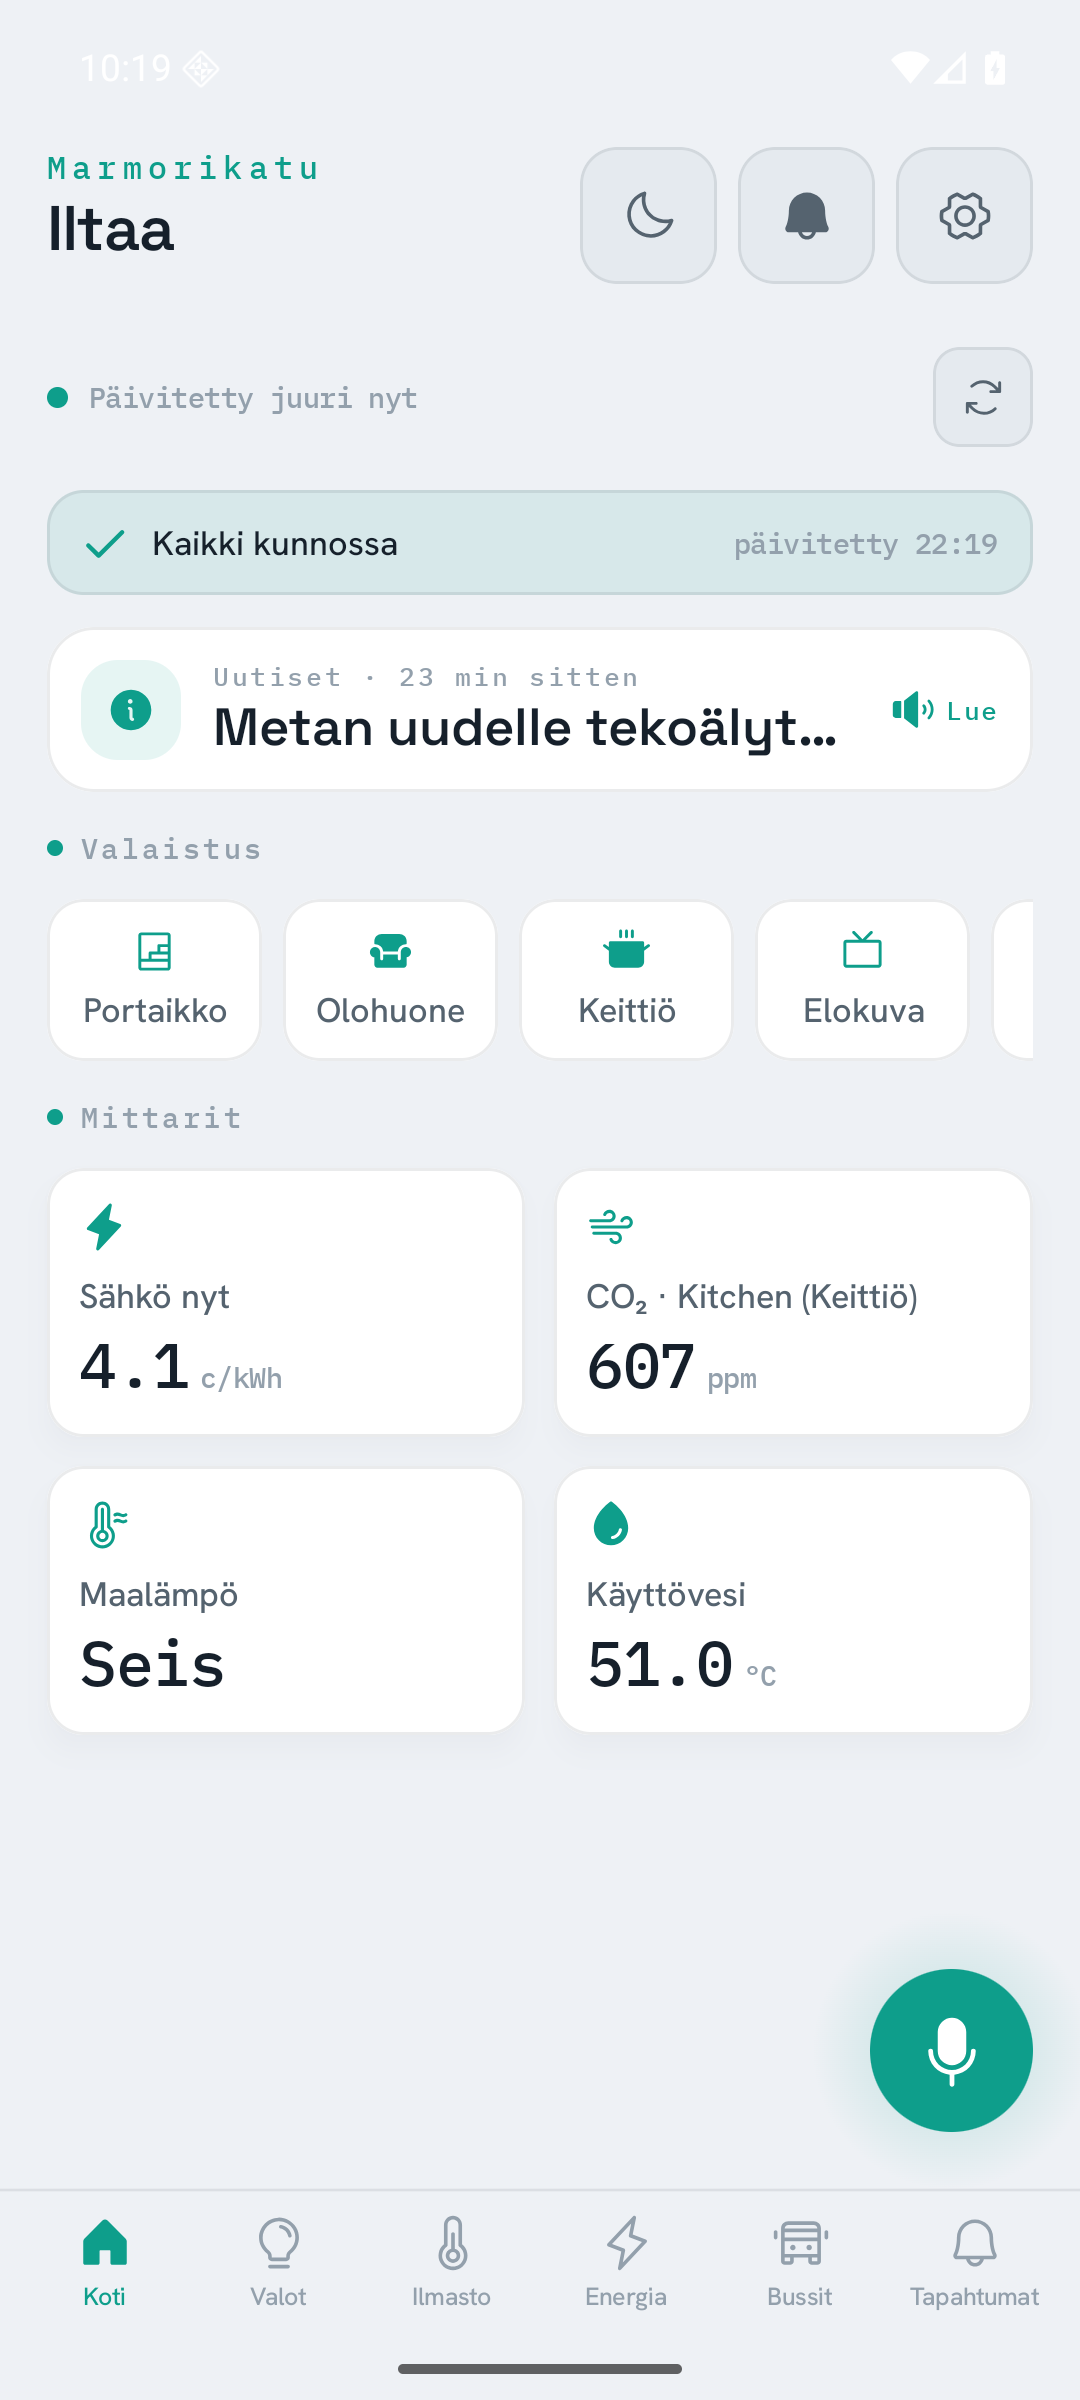
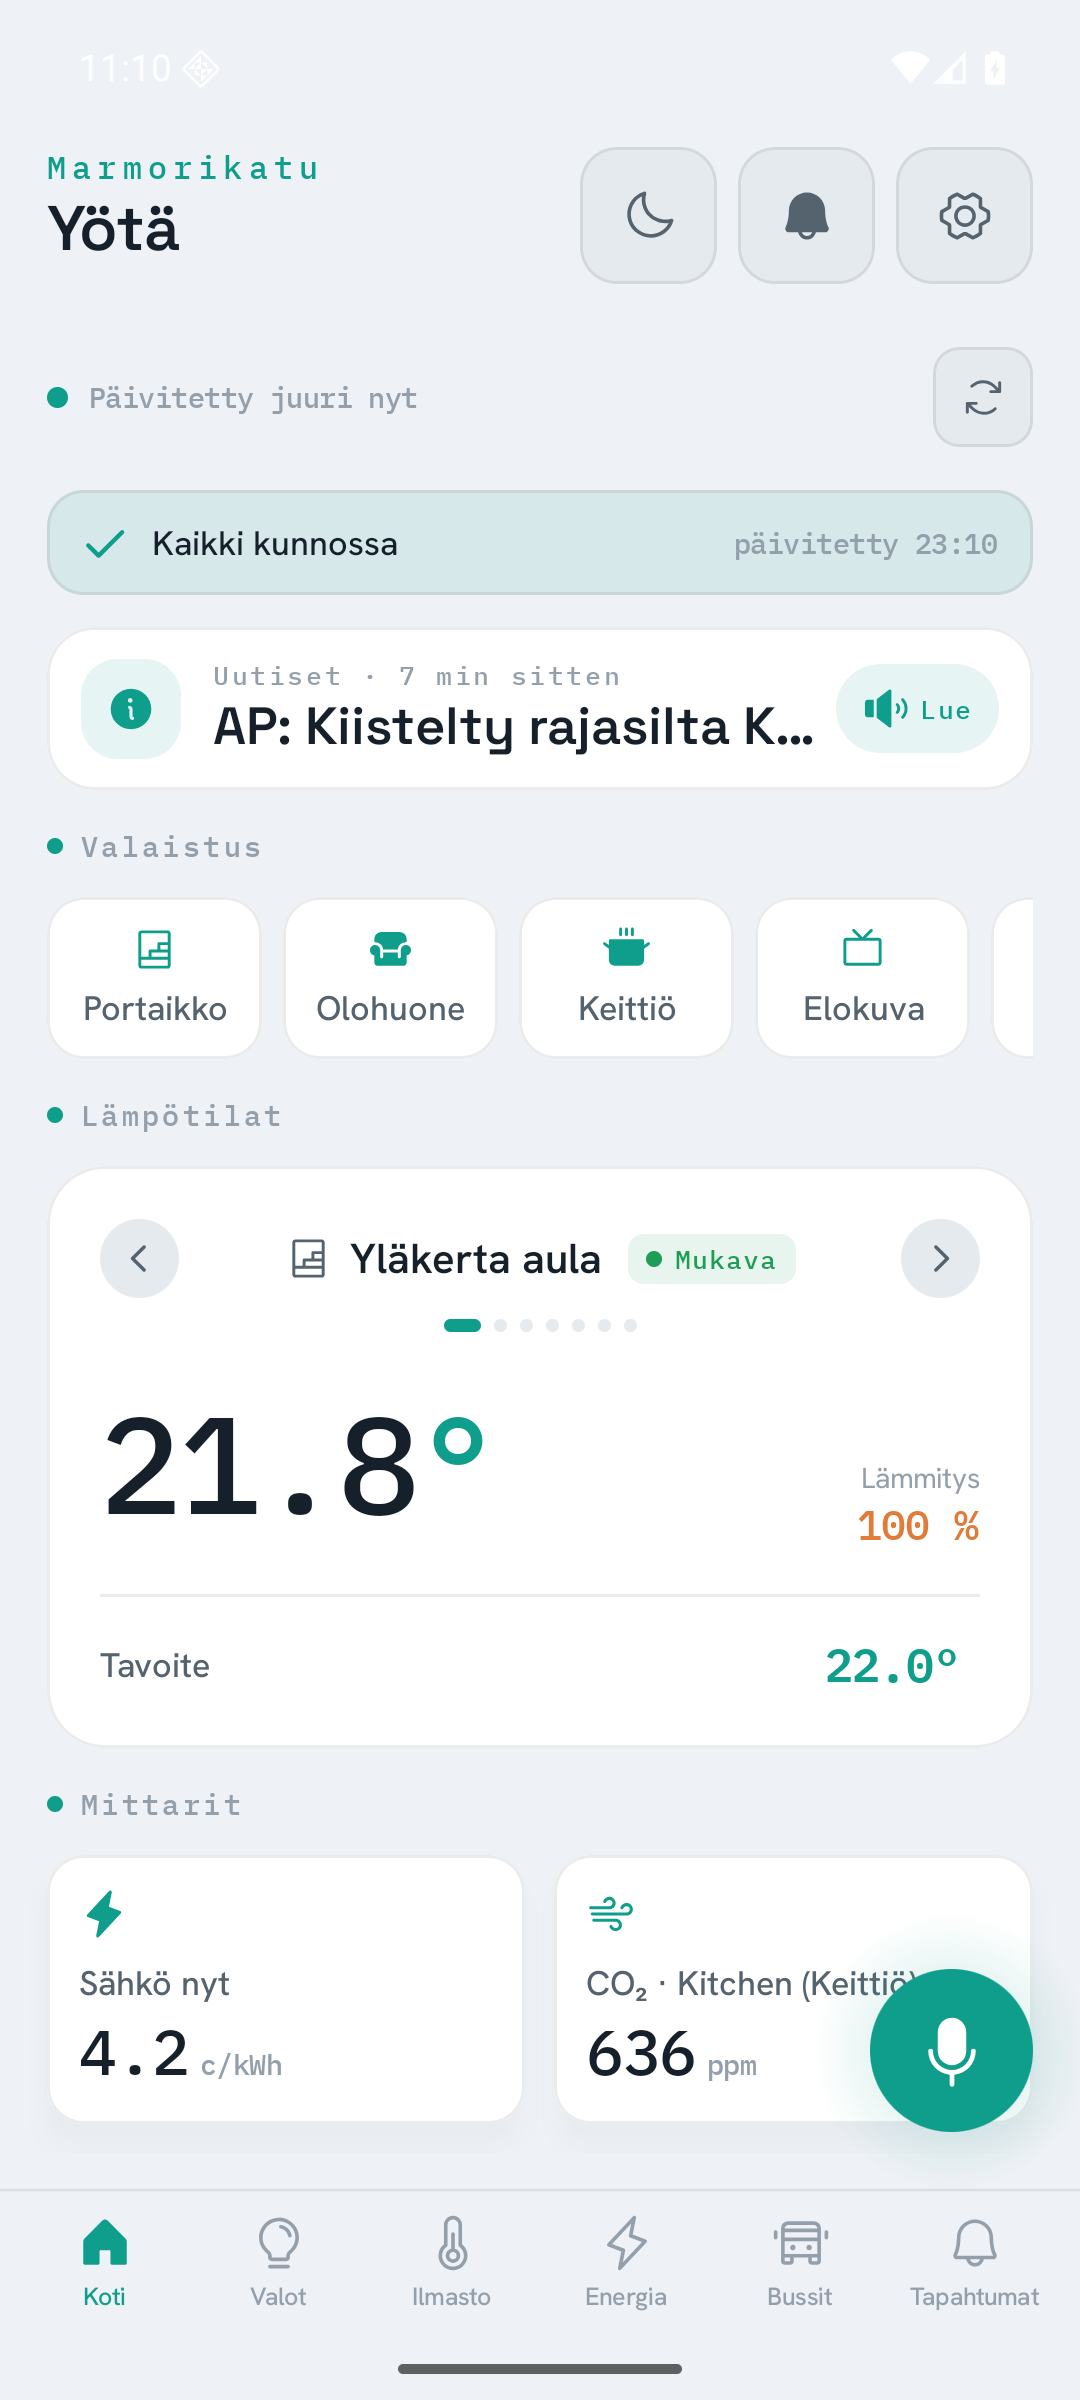
News card read-aloud button + Valot regrouping refinements
News card: split into a left target that opens the full list and a distinct
speaker 'Lue' pill that reads aloud — and it now reads every headline + summary,
not just the first.

Valot grouping per the owner's layout:
- Entry hall folded into one 'Eteinen' dimmer (foyer + vestibule + storage).
- Dining lights ('Ruokailu') join the kitchen scene.
- Sauna merges the bathroom into one on/off group (on the sauna's floor only).
- Kodinhoitohuone is now on/off switches (no dimmer).

Also: the Koti 'Olohuone' scene lights only the ceiling, LED strip off.

Claude-Session: https://claude.ai/code/session_01YUx3xkCw8ajvZdByZ9WnmA

diff --git a/composeApp/src/commonMain/kotlin/fi/marmorikatu/app/screens/KotiScreen.kt b/composeApp/src/commonMain/kotlin/fi/marmorikatu/app/screens/KotiScreen.kt
@@ -169,7 +169,7 @@ fun KotiScreen(viewModel: KotiViewModel = koinViewModel()) {
             }
 
             news.firstOrNull()?.let { top ->
-                NewsCard(top, onOpen = { newsOpen = true })
+                NewsCard(top, onOpen = { newsOpen = true }, onRead = viewModel::readNews)
                 if (newsOpen) {
                     MkArticleViewer(
                         title = "Uutiset",
@@ -216,47 +216,67 @@ fun KotiScreen(viewModel: KotiViewModel = koinViewModel()) {
     }
 }
 
-/** Top news headline; tapping opens the full text. Per the design's news card. */
+/** Top news headline: the left opens the full list, the speaker reads it aloud. */
 @Composable
-private fun NewsCard(news: NewsHeadline, onOpen: () -> Unit) {
+private fun NewsCard(news: NewsHeadline, onOpen: () -> Unit, onRead: () -> Unit) {
     val c = MkTheme.colors
     val shape = androidx.compose.foundation.shape.RoundedCornerShape(fi.marmorikatu.app.theme.MkRadius.lg)
+    val pill = androidx.compose.foundation.shape.RoundedCornerShape(fi.marmorikatu.app.theme.MkRadius.round)
     Row(
         modifier = Modifier
             .fillMaxWidth()
             .clip(shape)
             .background(c.surfaceCard)
             .border(1.dp, c.borderSubtle, shape)
-            .clickable(onClick = onOpen)
-            .padding(horizontal = 13.dp, vertical = 12.dp),
-        horizontalArrangement = Arrangement.spacedBy(12.dp),
+            .padding(horizontal = 13.dp, vertical = 10.dp),
+        horizontalArrangement = Arrangement.spacedBy(6.dp),
         verticalAlignment = Alignment.CenterVertically,
     ) {
-        Box(
+        // Left: icon + headline — tapping opens the full news list.
+        Row(
             modifier = Modifier
-                .size(38.dp)
+                .weight(1f)
                 .clip(androidx.compose.foundation.shape.RoundedCornerShape(fi.marmorikatu.app.theme.MkRadius.md))
-                .background(c.accentDim),
-            contentAlignment = Alignment.Center,
+                .clickable(onClick = onOpen)
+                .padding(vertical = 2.dp),
+            horizontalArrangement = Arrangement.spacedBy(12.dp),
+            verticalAlignment = Alignment.CenterVertically,
         ) {
-            androidx.compose.material3.Icon(MkIcons.Info, null, tint = c.accent, modifier = Modifier.size(19.dp))
+            Box(
+                modifier = Modifier
+                    .size(38.dp)
+                    .clip(androidx.compose.foundation.shape.RoundedCornerShape(fi.marmorikatu.app.theme.MkRadius.md))
+                    .background(c.accentDim),
+                contentAlignment = Alignment.Center,
+            ) {
+                androidx.compose.material3.Icon(MkIcons.Info, null, tint = c.accent, modifier = Modifier.size(19.dp))
+            }
+            Column(modifier = Modifier.weight(1f)) {
+                Text(
+                    text = "Uutiset" + news.published.takeIf { it.isNotBlank() }?.let { " · $it" }.orEmpty(),
+                    style = MkTheme.type.readout(10).copy(letterSpacing = 0.1.em),
+                    color = c.inkLo,
+                )
+                Text(
+                    text = news.title,
+                    style = MkTheme.type.heading,
+                    color = c.inkHi,
+                    maxLines = 1,
+                    overflow = androidx.compose.ui.text.style.TextOverflow.Ellipsis,
+                )
+            }
         }
-        Column(modifier = Modifier.weight(1f)) {
-            Text(
-                text = "Uutiset" + news.published.takeIf { it.isNotBlank() }?.let { " · $it" }.orEmpty(),
-                style = MkTheme.type.readout(10).copy(letterSpacing = 0.1.em),
-                color = c.inkLo,
-            )
-            Text(
-                text = news.title,
-                style = MkTheme.type.heading,
-                color = c.inkHi,
-                maxLines = 1,
-                overflow = androidx.compose.ui.text.style.TextOverflow.Ellipsis,
-            )
-        }
-        Row(verticalAlignment = Alignment.CenterVertically, horizontalArrangement = Arrangement.spacedBy(4.dp)) {
-            androidx.compose.material3.Icon(MkIcons.SpeakerHigh, null, tint = c.accent, modifier = Modifier.size(17.dp))
+        // Right: the speaker reads every headline aloud.
+        Row(
+            modifier = Modifier
+                .clip(pill)
+                .background(c.accentDim)
+                .clickable(onClick = onRead)
+                .padding(horizontal = 10.dp, vertical = 8.dp),
+            verticalAlignment = Alignment.CenterVertically,
+            horizontalArrangement = Arrangement.spacedBy(4.dp),
+        ) {
+            androidx.compose.material3.Icon(MkIcons.SpeakerHigh, "Lue uutiset", tint = c.accent, modifier = Modifier.size(18.dp))
             Text("Lue", style = MkTheme.type.readout(10).copy(letterSpacing = 0.06.em), color = c.accent)
         }
     }

diff --git a/composeApp/src/commonMain/kotlin/fi/marmorikatu/app/screens/ValotViewModel.kt b/composeApp/src/commonMain/kotlin/fi/marmorikatu/app/screens/ValotViewModel.kt
@@ -191,10 +191,11 @@ class ValotViewModel(
             val windows = floorLights.filter { it.isWindow() }
             val rest = floorLights.filterNot { it.isWindow() }
 
+            // The sauna only merges the bathroom on the floor it actually lives on.
+            val saunaFloor = rest.any { it.name.contains("sauna", ignoreCase = true) }
             val areas = LinkedHashMap<String, MutableList<Light>>()
             rest.forEach { light ->
-                val area = light.name.trim().substringBefore(' ').ifBlank { light.name }
-                areas.getOrPut(area) { mutableListOf() }.add(light)
+                areas.getOrPut(areaNameFor(light, saunaFloor)) { mutableListOf() }.add(light)
             }
 
             val items = mutableListOf<AreaUi>()
@@ -226,11 +227,32 @@ class ValotViewModel(
         fun Light.isWindow(): Boolean =
             name.contains("ikkuna", ignoreCase = true)
 
+        /**
+         * The area a fixture belongs to. Beyond the first-word default this
+         * folds the entry hall together (foyer + vestibule + storage → Eteinen),
+         * puts the dining lights under the kitchen, and merges the bathroom into
+         * the sauna on the floor the sauna is on.
+         */
+        fun areaNameFor(light: Light, saunaFloor: Boolean): String {
+            val n = light.name
+            val first = n.trim().substringBefore(' ').ifBlank { n }
+            return when {
+                n.contains("Eteinen", ignoreCase = true) ||
+                    n.contains("Tuulikaappi", ignoreCase = true) ||
+                    (first.equals("Varasto", ignoreCase = true) && !n.contains("ulko", ignoreCase = true)) -> "Eteinen"
+                n.contains("Ruokailu", ignoreCase = true) -> "Keittiö"
+                first.equals("Sauna", ignoreCase = true) || first.equals("Saunan", ignoreCase = true) -> "Sauna"
+                saunaFloor && (first.startsWith("Kylpy", ignoreCase = true) || first.startsWith("Kylpu", ignoreCase = true)) -> "Sauna"
+                else -> first
+            }
+        }
+
         /** Utility rooms get plain on/off switches, never a dimmer ladder. */
         fun isPlainGroup(area: String): Boolean {
             val a = area.lowercase()
             return a.startsWith("wc") || a.startsWith("kylpy") || a.startsWith("kylpu") ||
-                a.startsWith("mh") || a.startsWith("sauna") || a.startsWith("tekninen")
+                a.startsWith("mh") || a.startsWith("sauna") || a.startsWith("tekninen") ||
+                a.startsWith("kodinhoito")
         }
 
         /** Render order within a floor: dimmers → on/off groups → singles → windows. */

diff --git a/composeApp/src/commonMain/kotlin/fi/marmorikatu/app/screens/KotiViewModel.kt b/composeApp/src/commonMain/kotlin/fi/marmorikatu/app/screens/KotiViewModel.kt
@@ -245,10 +245,14 @@ class KotiViewModel(
         return targets.filter { (l, on) -> l.displayedOn != on }.map { (l, on) -> l.id to on }
     }
 
-    /** Read the top headline + summary aloud with the device voice (the card's "Lue"). */
+    /** Read the news aloud with the device voice — every headline and its summary. */
     fun readNews() {
-        val headline = _news.value.firstOrNull() ?: return
-        viewModelScope.launch { runCatching { tts.speak(headline.fullText) } }
+        val items = _news.value
+        if (items.isEmpty()) return
+        val digest = items.joinToString(". ") { h ->
+            if (h.description.isBlank()) h.title else "${h.title}. ${h.description}"
+        }
+        viewModelScope.launch { runCatching { tts.speak(digest) } }
     }
 
     private fun loadNews() {